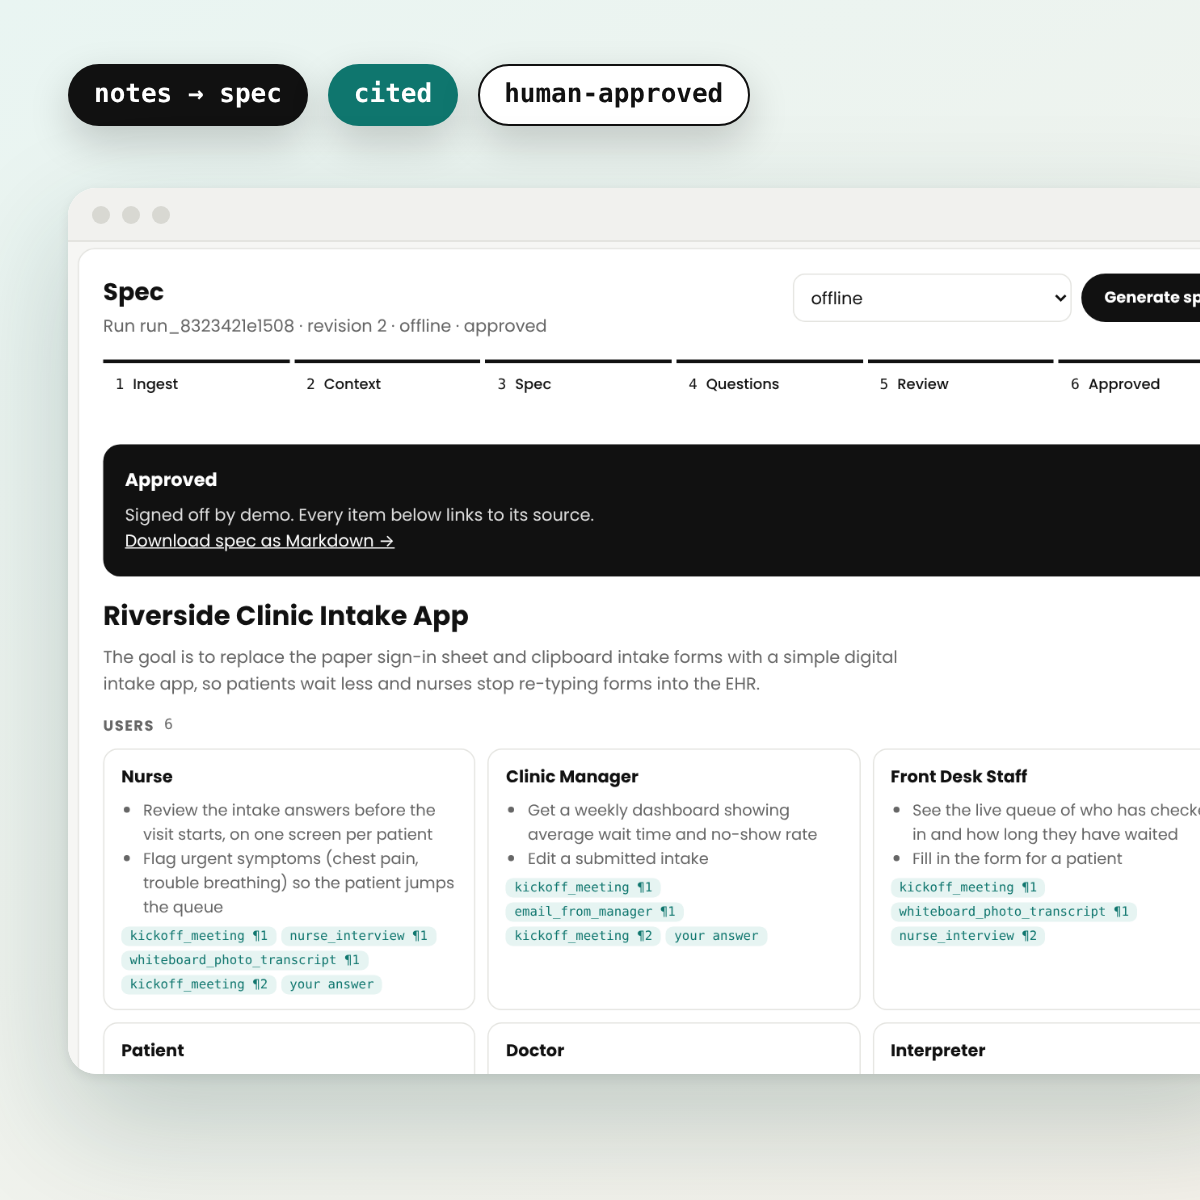
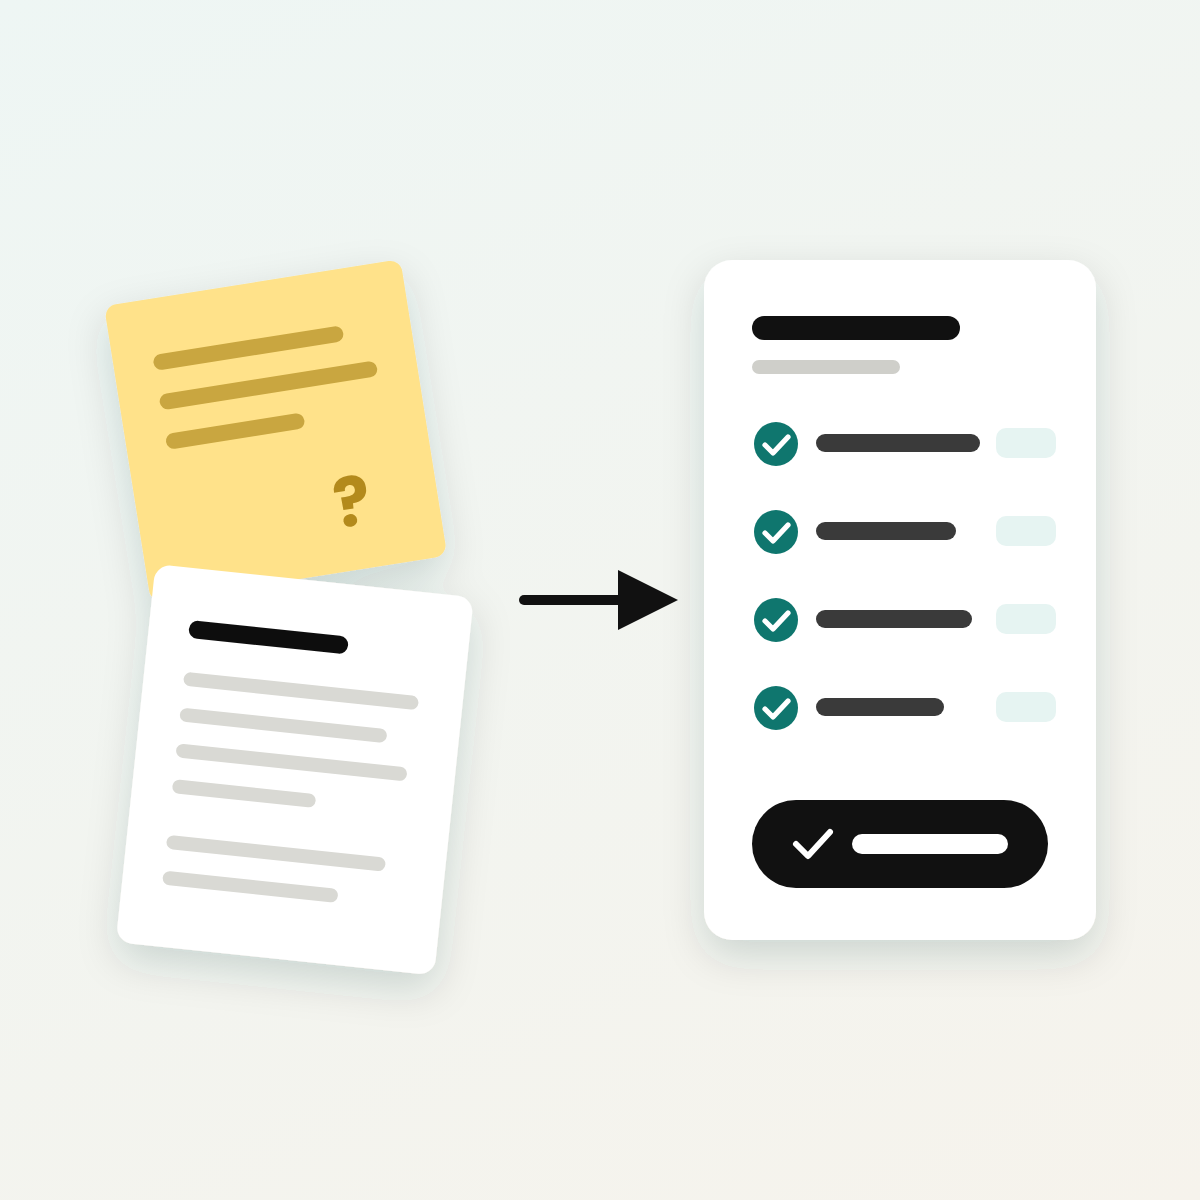
Use a simple notes-to-spec illustration for the NoteSpec AI card

diff --git a/index.html b/index.html
@@ -481,7 +481,7 @@
             <div class="article-container">
               <img
                 src="./assets/project-notespec.png"
-                alt="NoteSpec AI web console showing an approved app spec with cited sources"
+                alt="Illustration: messy notes turning into a checked, approved app spec"
                 class="project-img"
               />
             </div>
